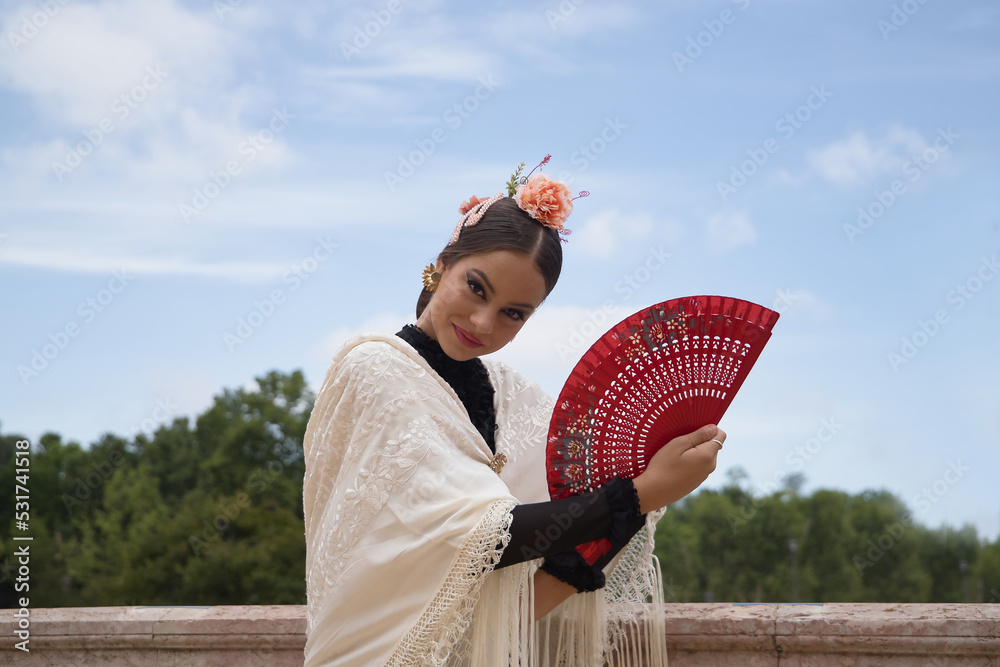
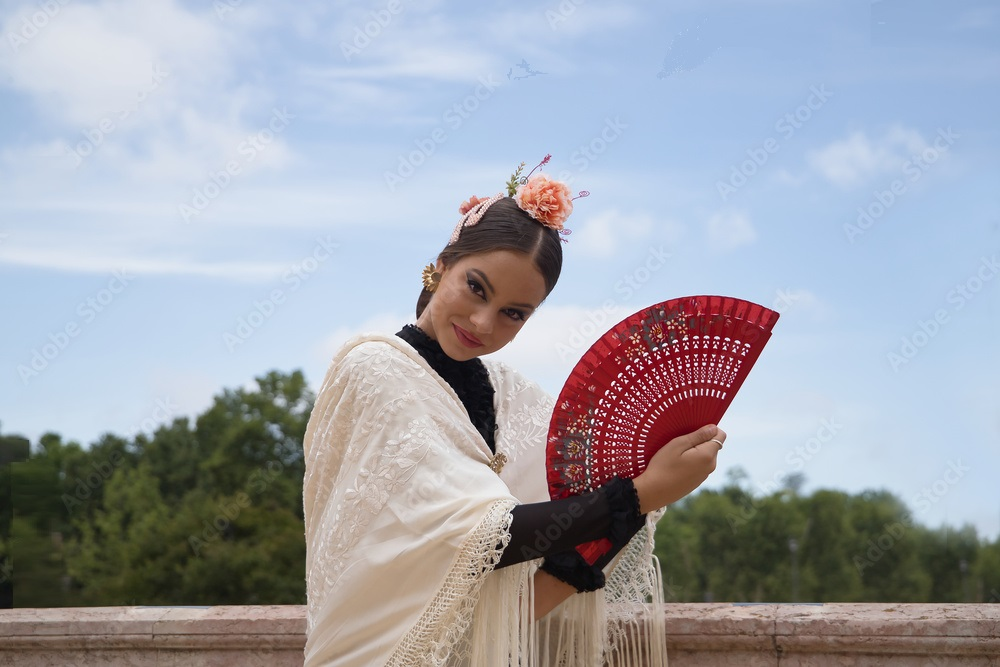
included some pictures for 'container section'

Changed region(s): [[0.589, 0.5097, 0.744, 0.6897], [0.0, 0.6597, 0.062, 0.9895]]

diff --git a/index.html b/index.html
@@ -59,11 +59,12 @@
             <div class="swiper-slide"><img src="assets/img/academias-de-flamenco-en-sevilla.jpg" alt="duas dançarinas de Flamenco"></div>
             <div class="swiper-slide"><img src="assets/img/dancarina-de-flamenco-com-lindo-vestido.jpg" alt="dançarina usando uma castanhola"></div>
             <div class="swiper-slide"><img src="assets/img/SOFIA (FLAMENCO JUVENIL).jpg" alt="segunda dançarina usando castanhola"></div>
-            <div class="swiper-slide"><img src="assets/img/AA97DE882F2C41939AC68B95AA59E00B.jpg" alt="dançarina de flamenco com um leque vermelho"></div>
+            <!--<div class="swiper-slide"><img src="assets/img/AA97DE882F2C41939AC68B95AA59E00B.jpg" alt="dançarina de flamenco com um leque vermelho"></div>-->
+            <div class="swiper-slide"><img src="assets/img/attractive-elegant-people-dancing-tango.jpg" alt="dançarina de flamenco com um vestido vermelho"></div>
             <div class="swiper-slide"><img src="assets/img/220EB646FC4E42F5AD7B52642E6642E5.jpg" alt="dançarina de flamenco com um vestido vermelho"></div>
             <div class="swiper-slide"><img src="assets/img/dancarina-475667-2186.jpg" alt="duas dançarinas de flamenco usando vestido preto"></div>     
         </div>
-        
+
         <!-- If we need pagination -->
         <div class="swiper-pagination"></div>
     
